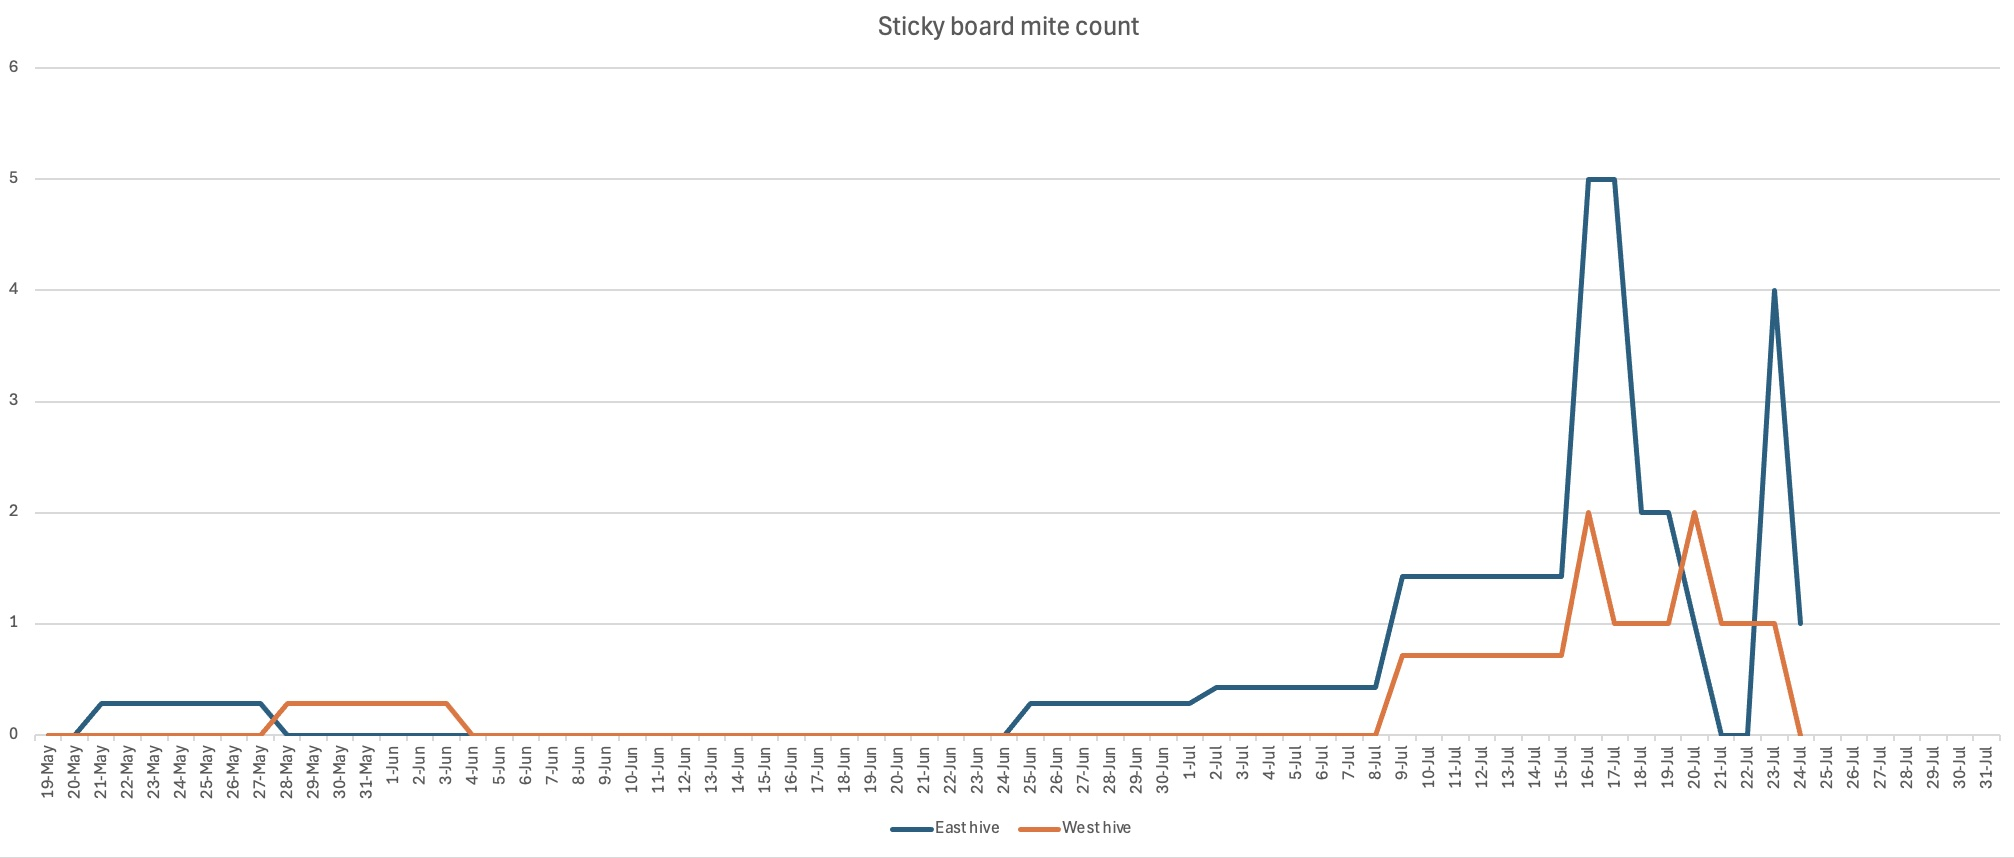
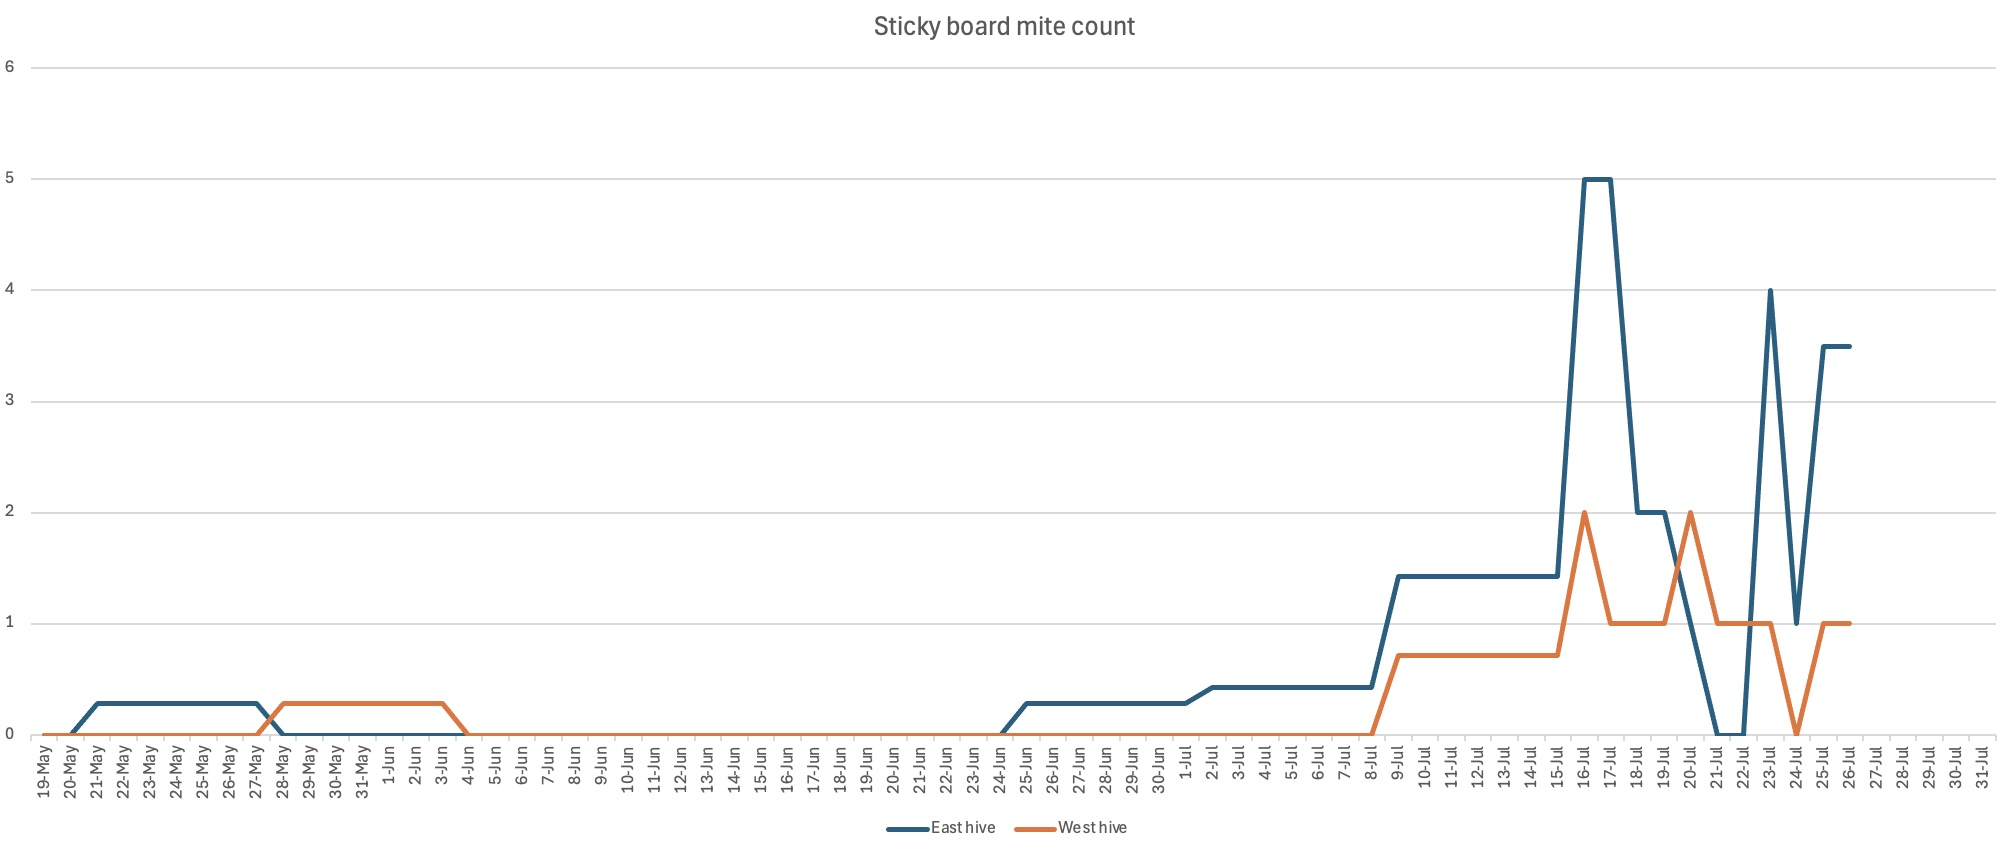
added mite check post

Changed region(s): [[0.0, 0.1831, 1.0, 0.9765], [0.4314, 0.0, 0.5547, 0.061]]

diff --git a/_posts/2024-07-26-mite-check.md b/_posts/2024-07-26-mite-check.md
@@ -1,0 +1,18 @@
+---
+title: "Mite Check"
+date: 2024-07-26
+---
+
+
+- Time: ~15.30
+- Temp: ~70F, cloudy
+
+### East nuc
+
+- Bottom board had 7 mites
+- Wiped and re-oiled the bottom board.
+
+### West nuc
+
+- Bottom board had 2 mites
+- Wiped and re-oiled the bottom board.
